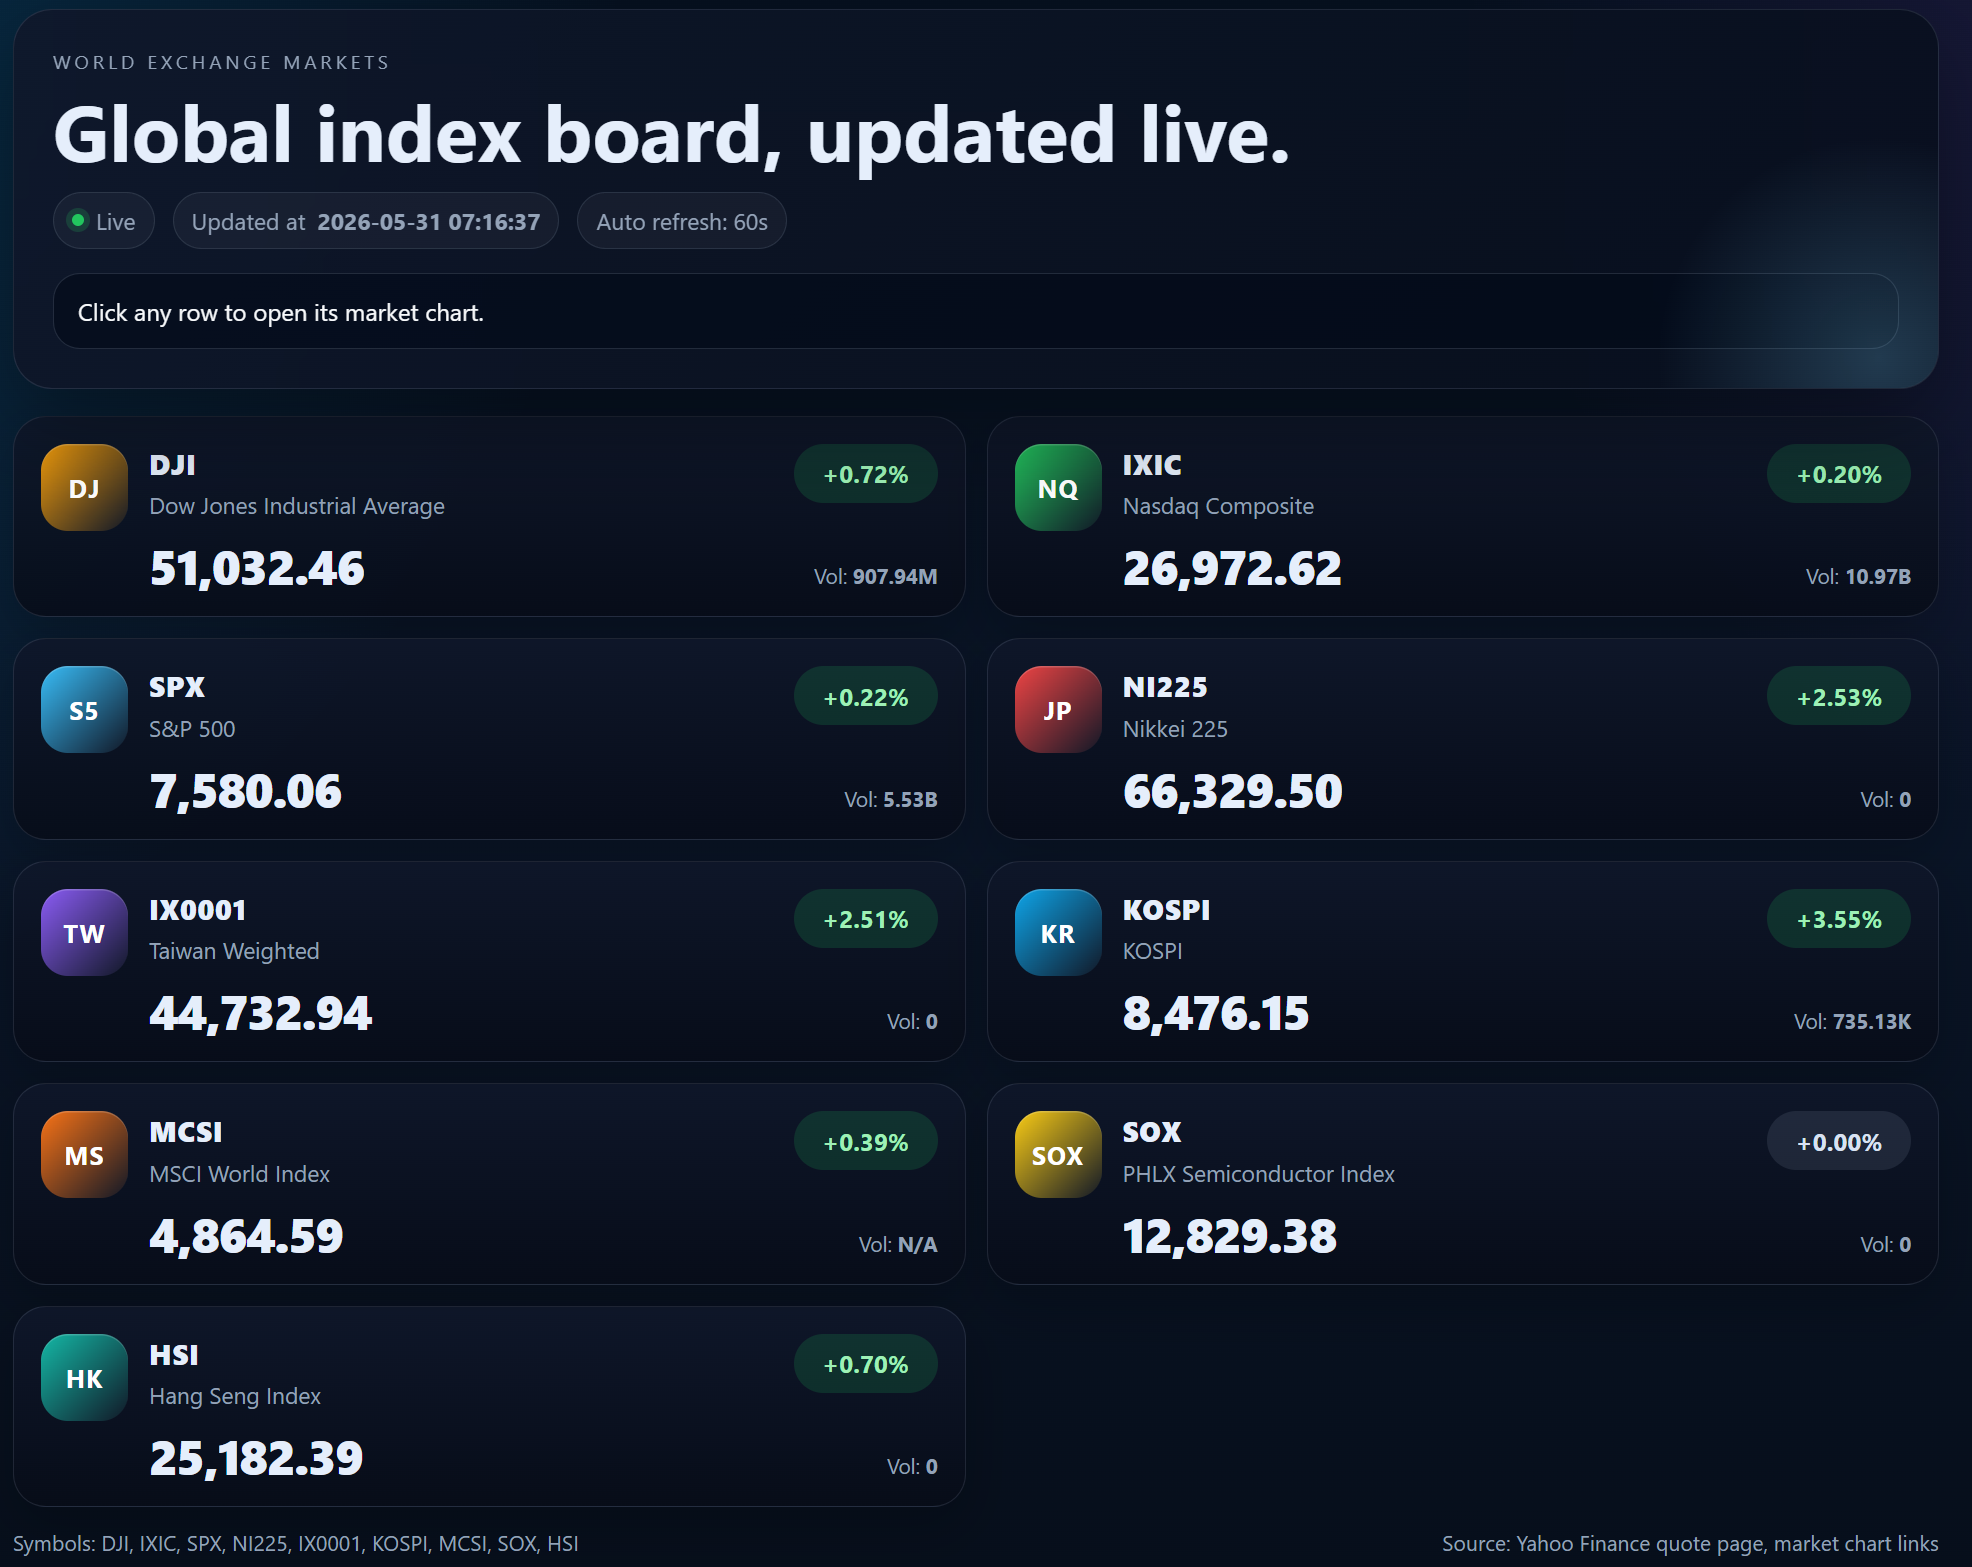
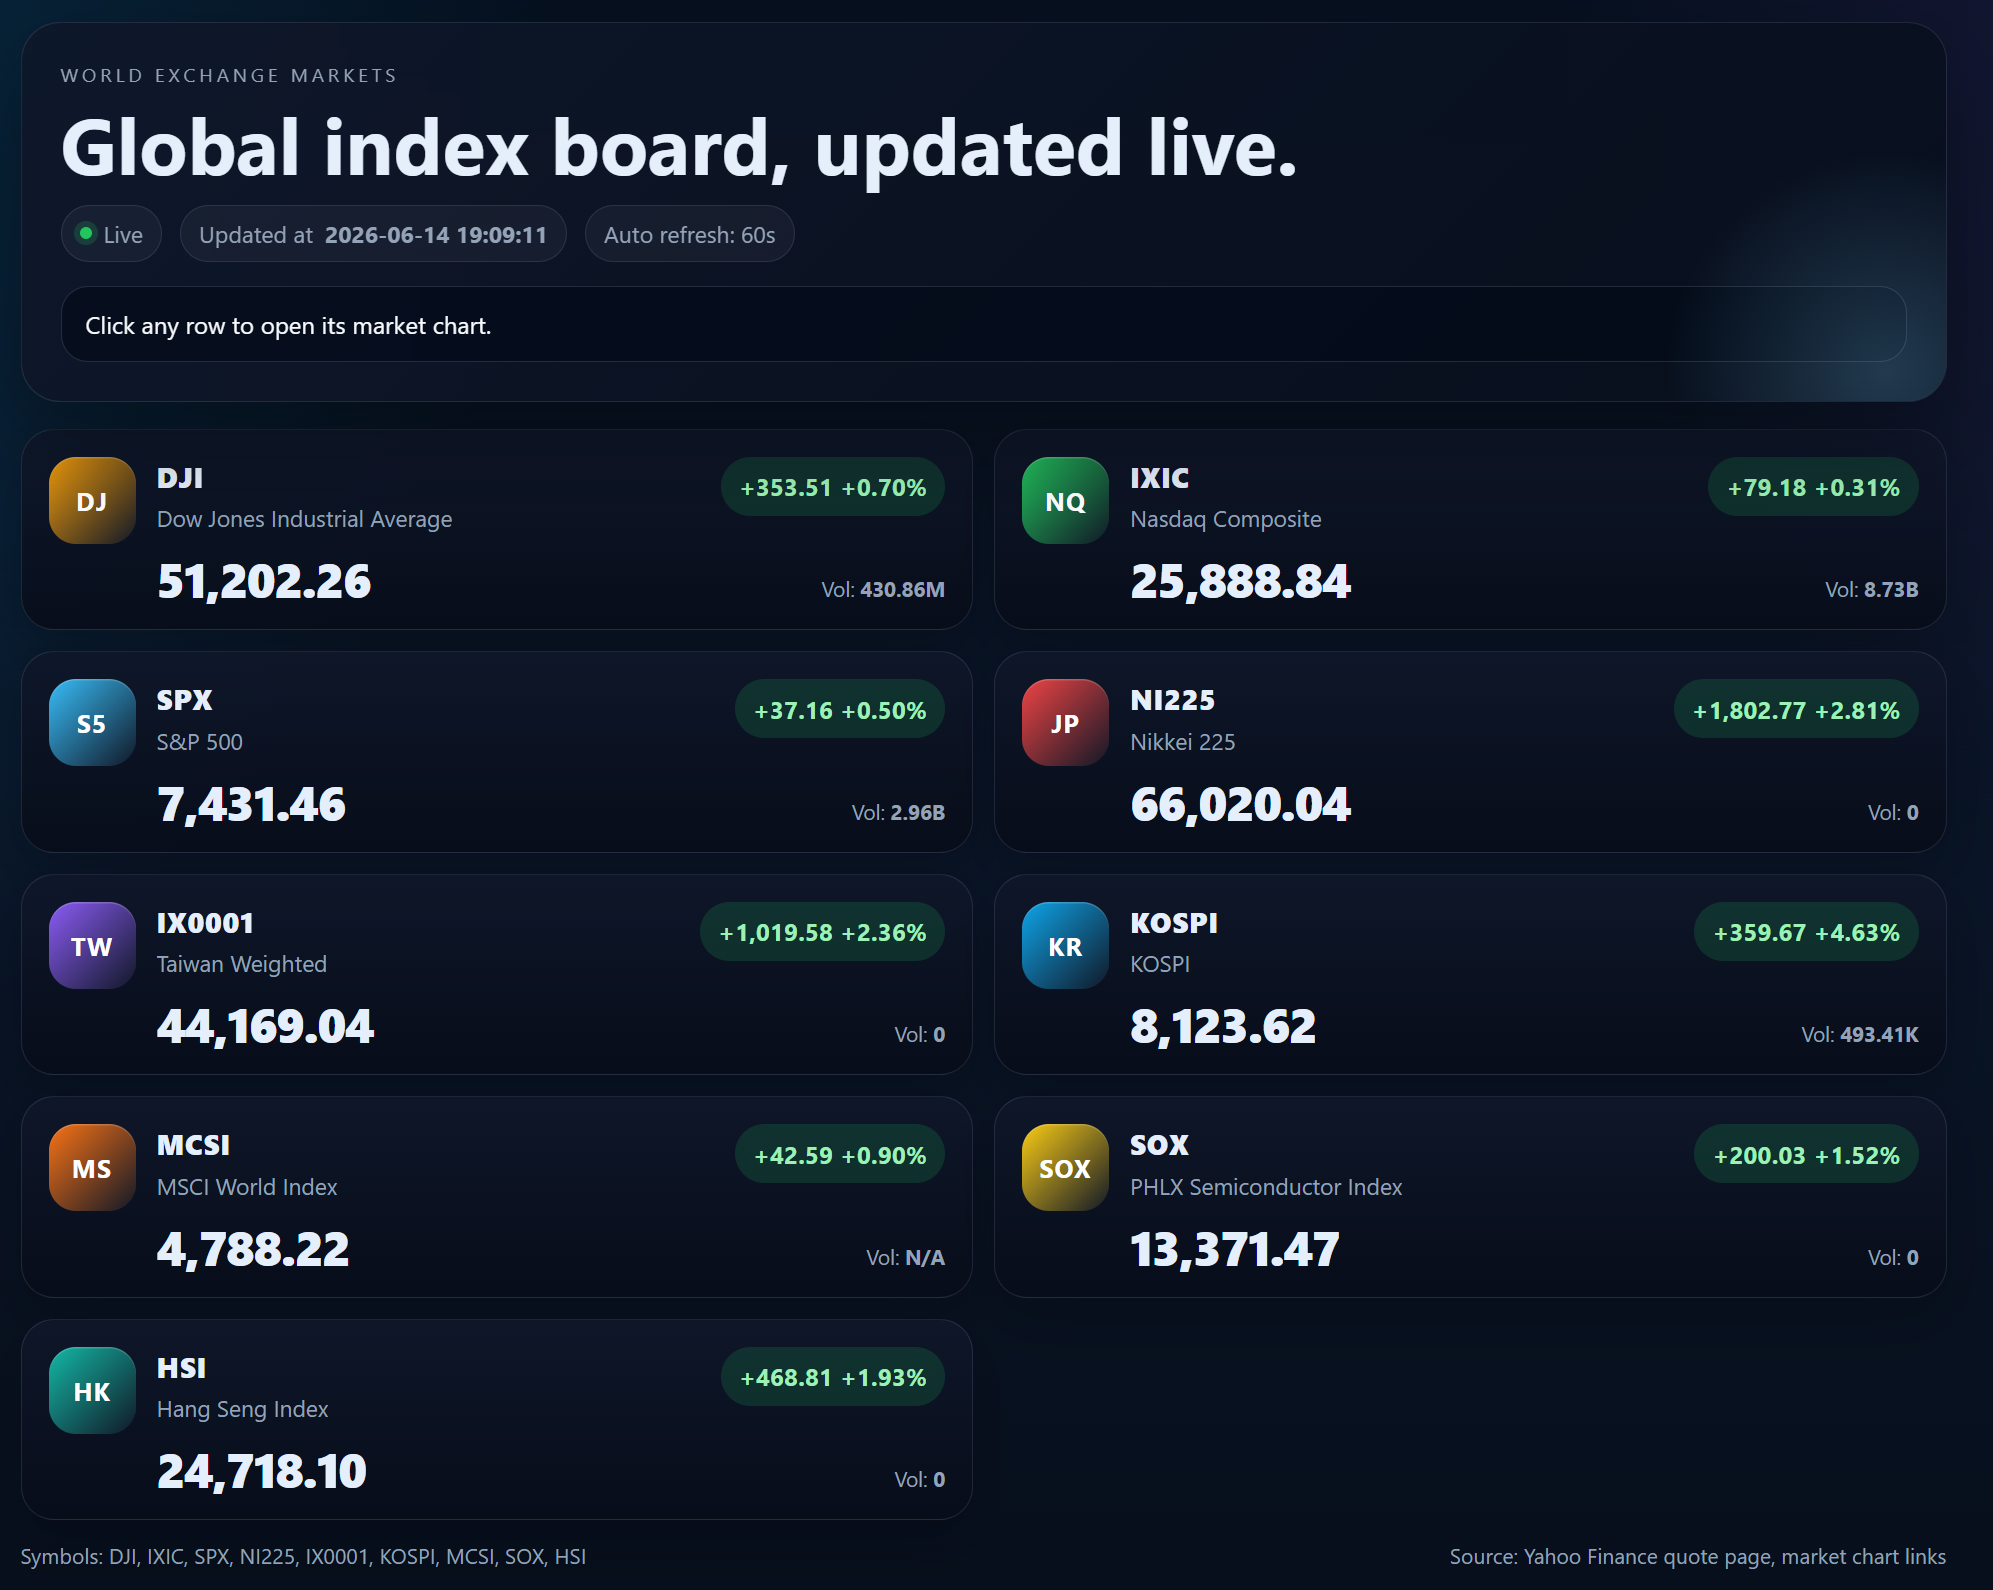
Add files via upload

diff --git a/worldindex.html b/worldindex.html
@@ -355,7 +355,7 @@
                             <div class="symbol">${stock.symbol}</div>
                             <div class="name">${stock.name}</div>
                         </div>
-                        <div class="change ${percentClass}">${stock.percent_change}</div>
+                        <div class="change ${percentClass}">${stock.change} ${stock.percent_change}</div>
                     </div>
                     <div class="price-row">
                         <div class="price">${stock.price}</div>
